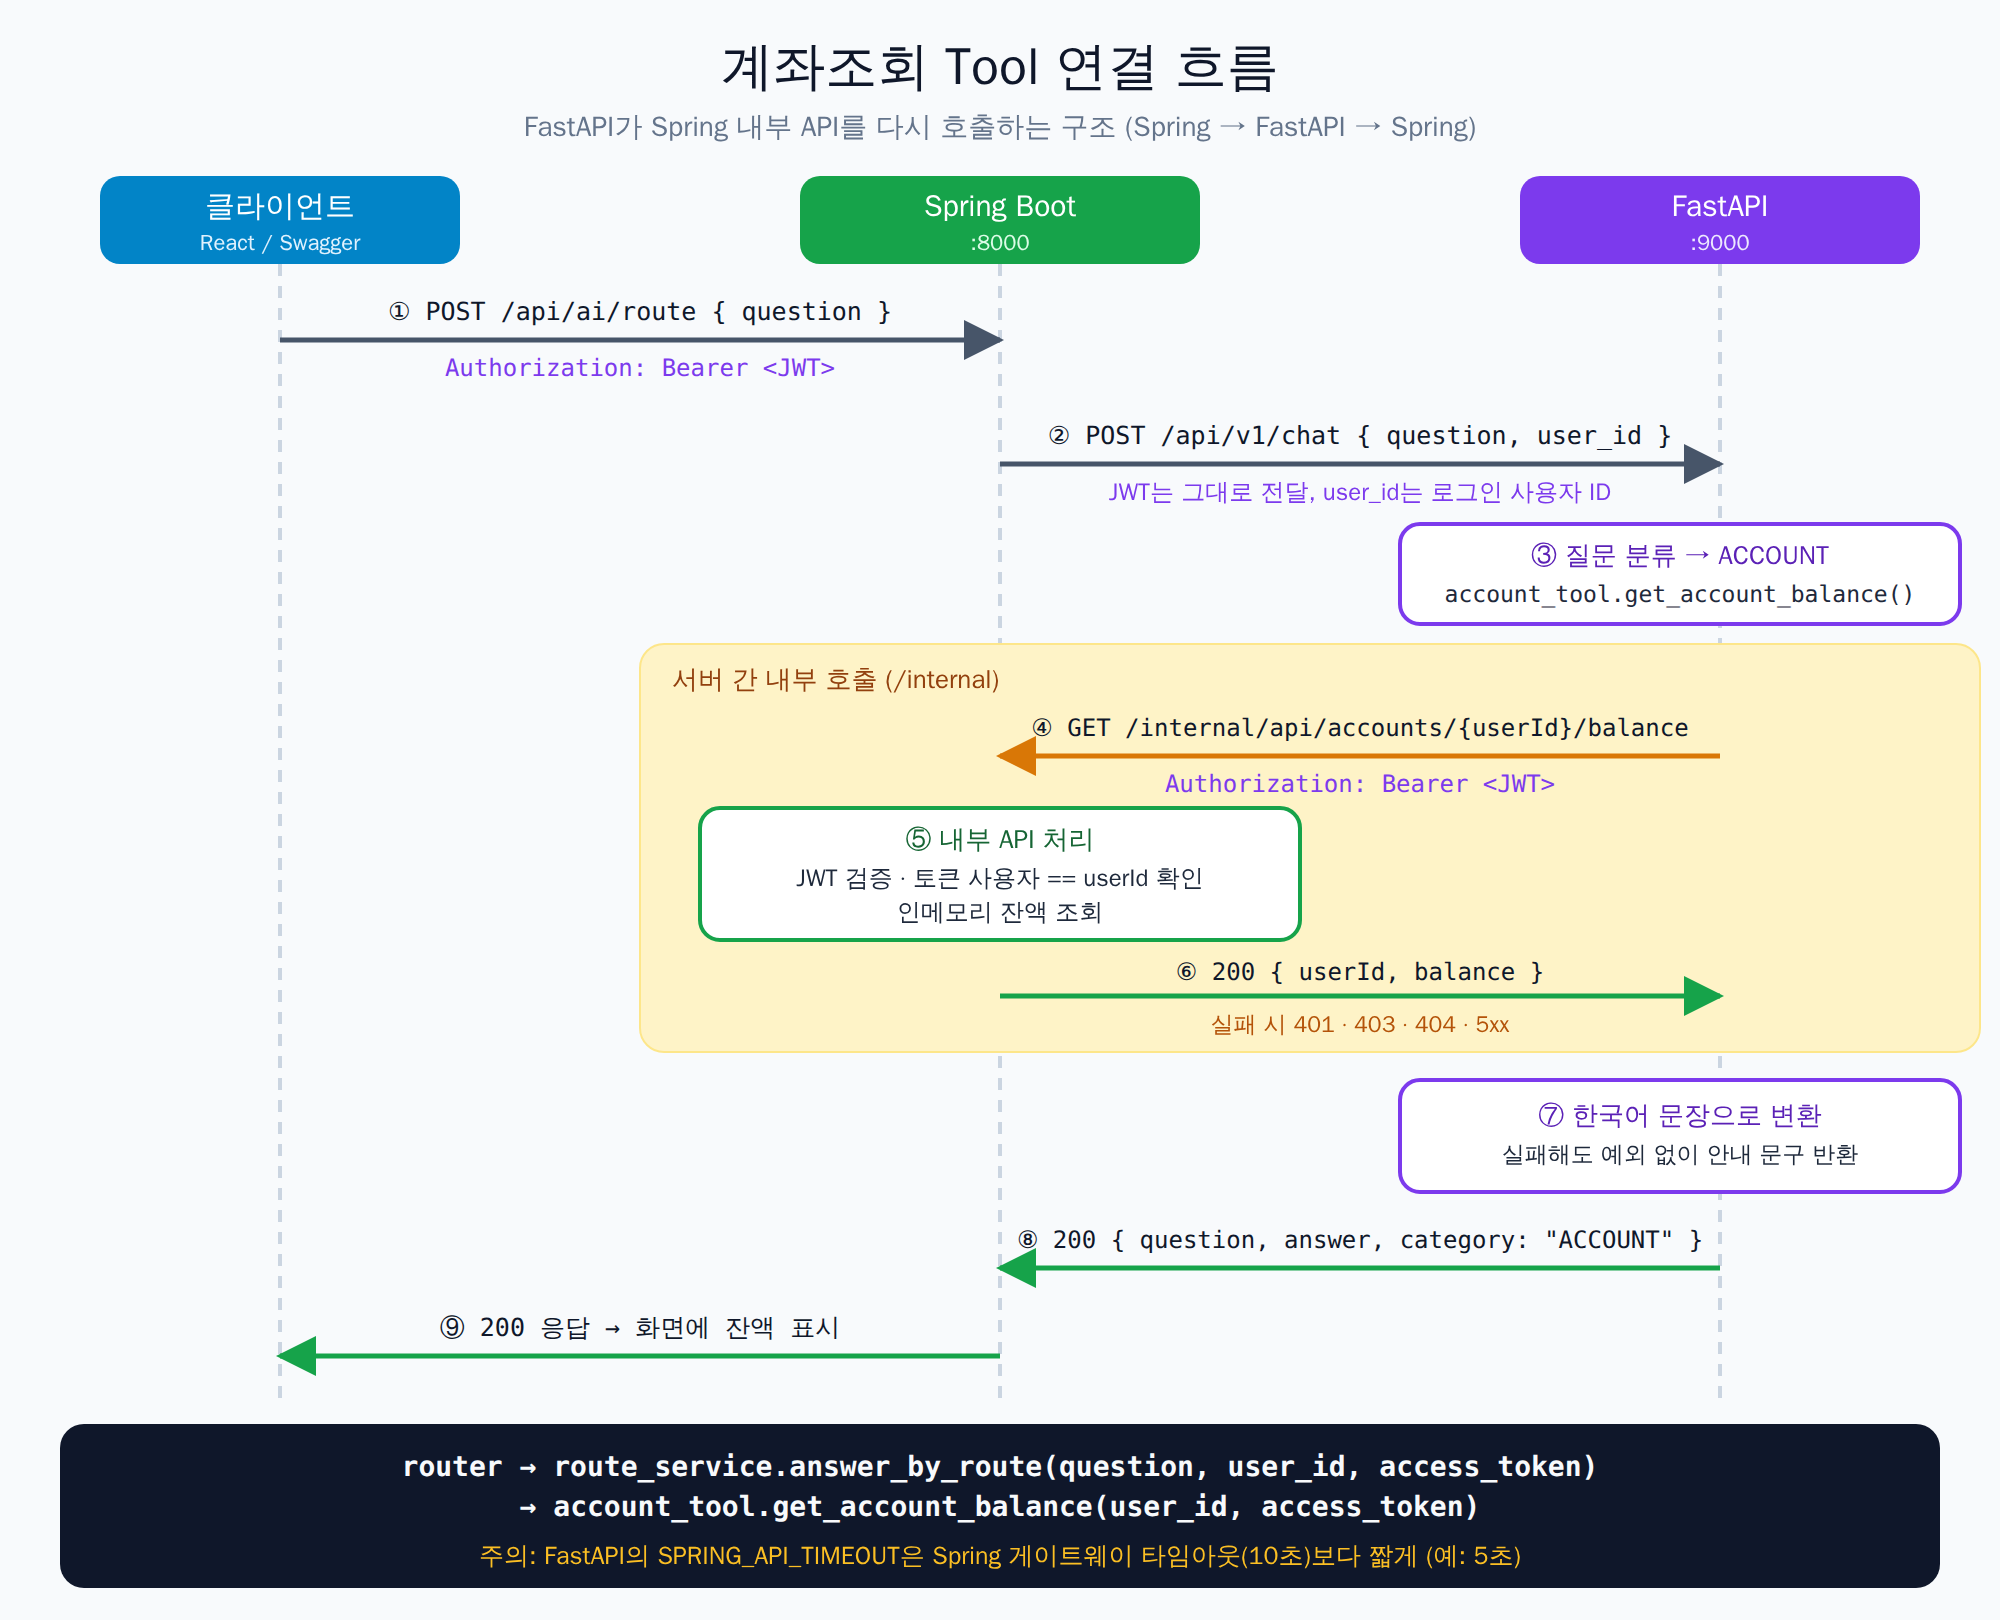
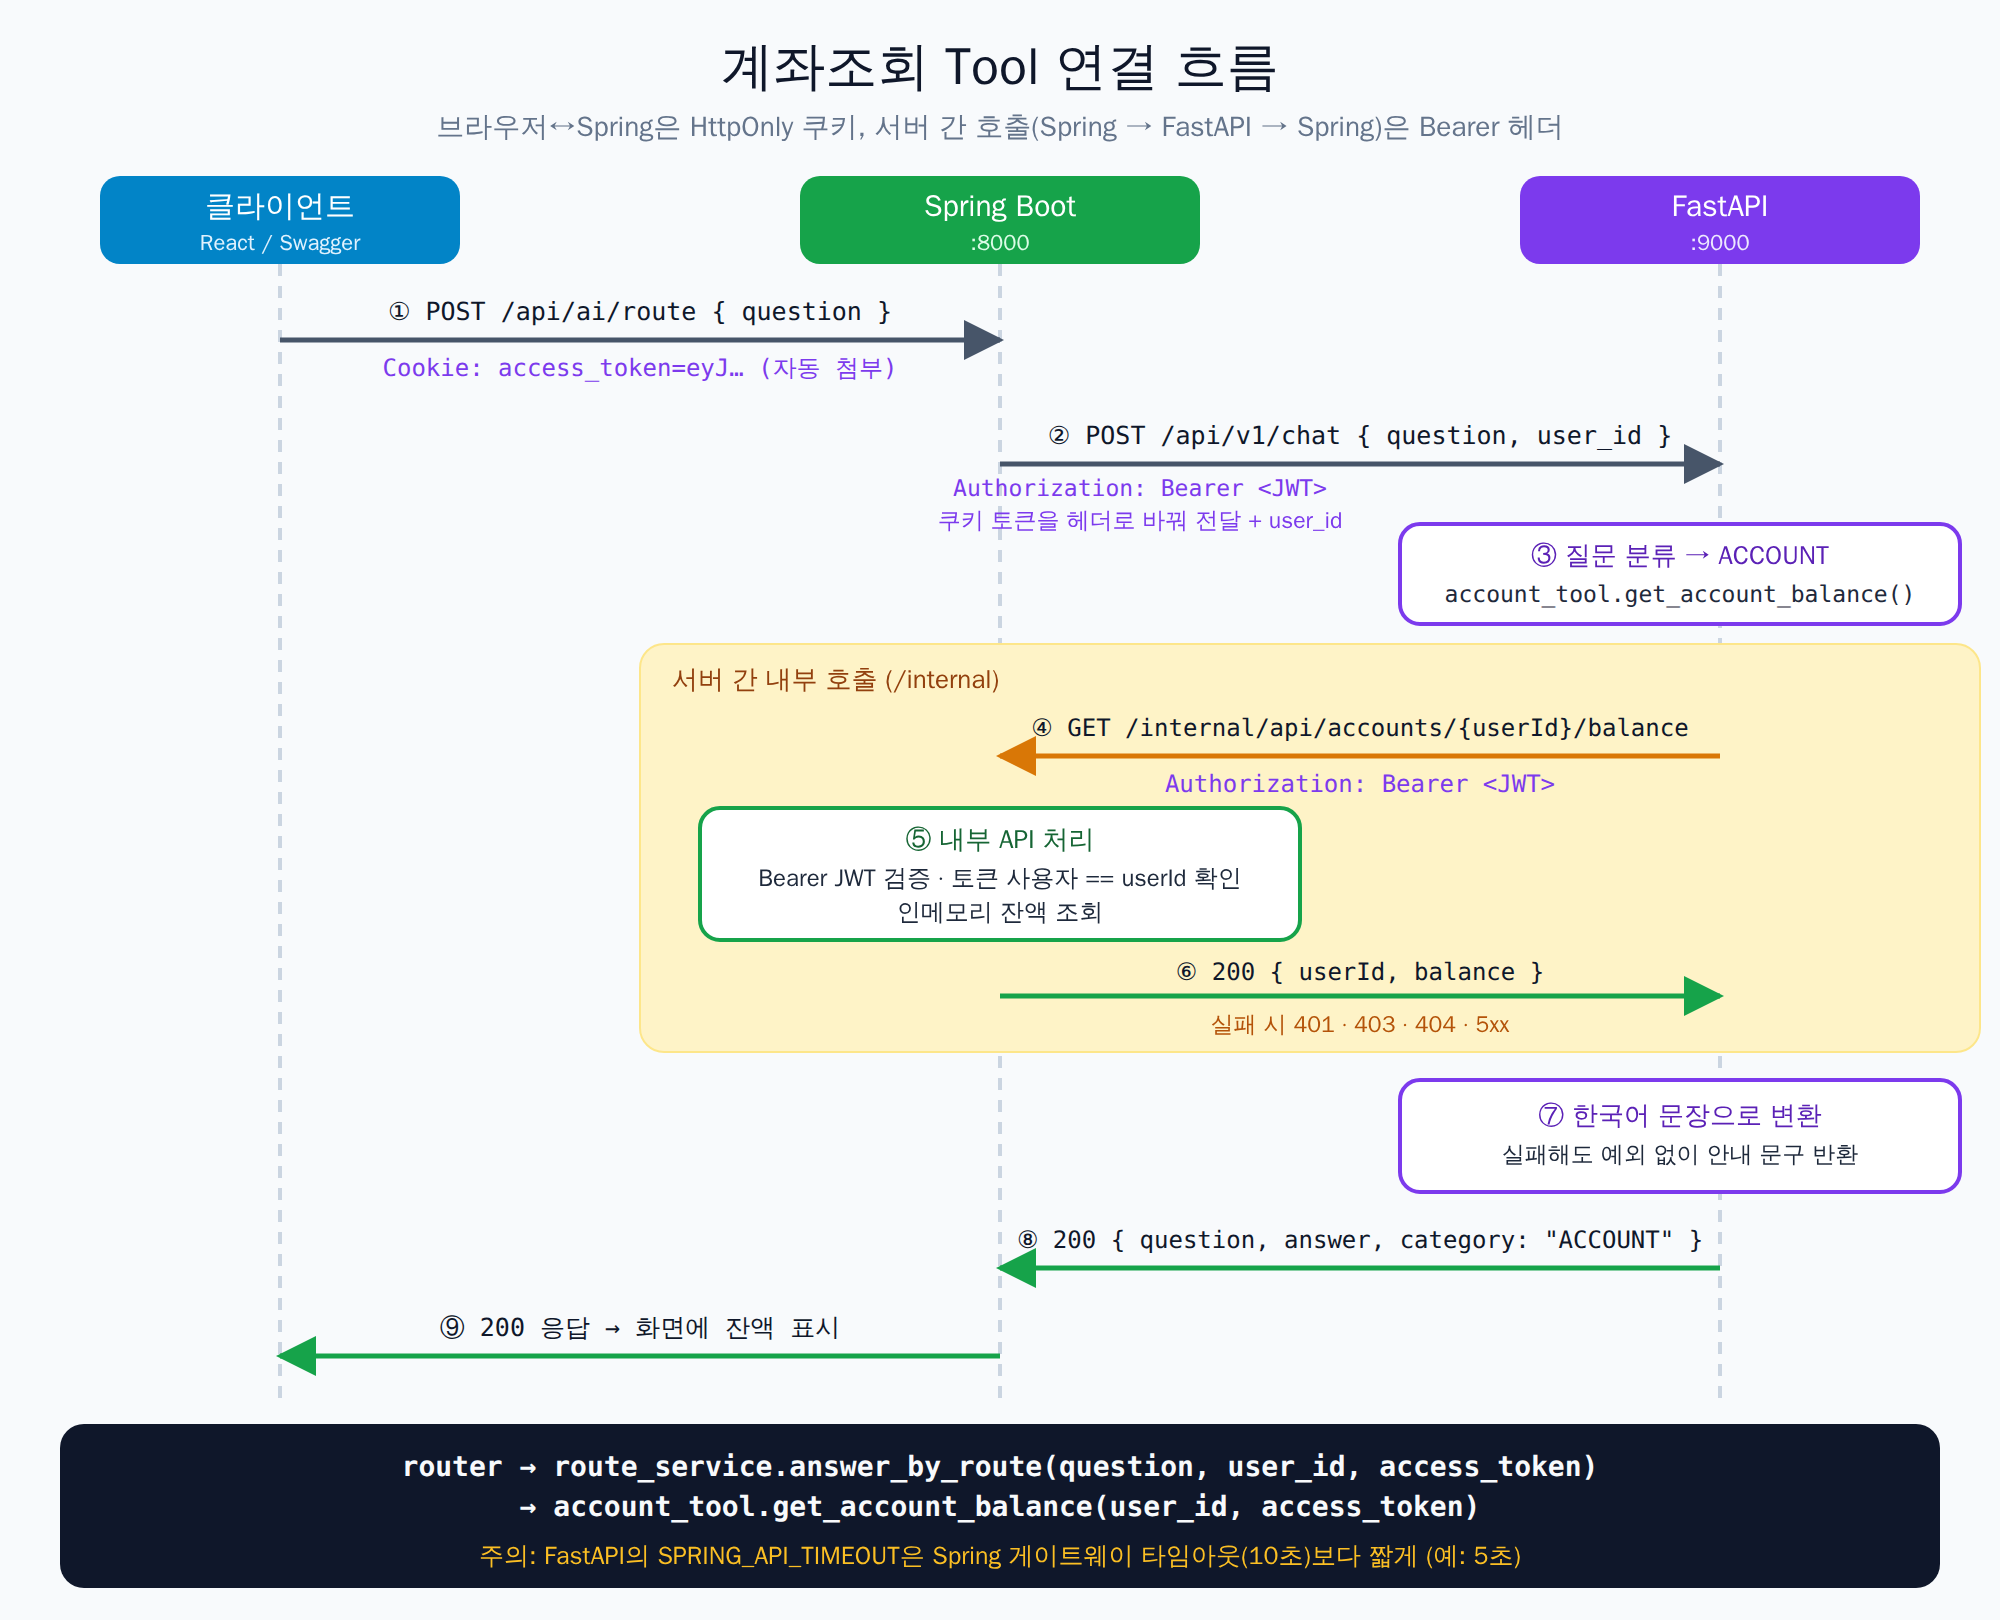
docs: 계좌조회 Tool 흐름도·문구를 쿠키 인증 전제로 수정 (서버 간 호출은 Bearer 유지)
Claude-Session: https://claude.ai/code/session_01PjmKdqbBkS6TdB9DFCQMnX

diff --git a/docs/vibe-day2-account-tool.md b/docs/vibe-day2-account-tool.md
@@ -1,0 +1,60 @@
+# 2일차 계좌조회 Tool 연결 — Vibe Coding 문구 (HttpOnly 쿠키 인증 전제)
+
+관련 그림: `account-tool-flow.png` (호출 흐름), `account-tool-rules.png` (분류 규칙 · 실패 메시지)
+선행 문구: `vibe-day2-jwt-cookie.md` (JWT 쿠키 인증)
+
+```text
+[SpringBoot] 인증된 사용자의 계좌 잔액을 반환하는 내부 API를 만들어 주세요.
+- GET /internal/api/accounts/{userId}/balance
+- 테스트용 인메모리 잔액 (예: userId 1 → 3,250,000원)
+- 응답: {"userId": 1, "balance": 3250000}
+- 존재하지 않는 userId는 404
+- JWT 인증 필요 (/internal/** 도 authenticated)
+  · 이 API는 FastAPI가 서버 간 호출하므로 Authorization: Bearer 헤더로 받는다
+    (JwtAuthenticationFilter의 resolveToken이 쿠키가 없으면 Bearer 헤더를 읽음)
+  · 토큰의 사용자 ID와 userId가 다르면 403
+
+[SpringBoot] 게이트웨이 연결
+- AiGatewayService가 FastAPI 호출 시
+  · 로그인 사용자 ID를 body의 user_id로 전달
+  · 필터가 Authentication의 credentials에 보관한 토큰 원문을 Authorization: Bearer 헤더로 전달
+    (브라우저 쿠키를 그대로 넘기지 않는다. 서버 간 호출은 Bearer 헤더 사용)
+
+[FastAPI] SpringBoot 내부 API를 호출하는 계좌조회 기능을 추가해 주세요.
+
+1. 질문 분류 (question_classifier — ACCOUNT를 가장 먼저 검사)
+   - "잔액" / "잔고" 포함 → ACCOUNT
+   - "계좌" / "통장" + ("얼마" / "조회" / "확인" / "남았" / "있어") → ACCOUNT
+   - "계좌 개설" 같은 지식 질문 → GENERAL
+     ("개설" 등이 포함되면 위 두 번째 규칙에서 제외)
+
+2. 입력
+   - user_id: 질문 문장이 아니라 요청 본문의 user_id 필드
+   - 토큰: Swagger Authorize(HTTPBearer, 선택 입력)
+
+3. 호출 흐름
+   router → route_service.answer_by_route(question, user_id, access_token)
+          → account_tool.get_account_balance(user_id, access_token)
+
+4. account_tool 규칙
+   - httpx로 GET 요청, 토큰이 있으면 Authorization: Bearer 헤더 추가
+   - 예외를 던지지 않고 항상 한국어 문자열 반환
+   - 실패 케이스별 안내 문구 포함:
+     잘못된 user_id(호출 전 검증), 연결 실패, 타임아웃, 404, 401, 403, 5xx, 그 외 예외
+
+5. 설정 (config.py)
+   - SPRING_API_BASE_URL (기본 http://localhost:8000), SPRING_API_TIMEOUT 사용
+   - 하드코딩 금지
+   - 타임아웃은 Spring 게이트웨이 타임아웃(10초)보다 짧게 (예: 5초)
+
+[확인]
+- "내 잔액 알려줘" → ACCOUNT, "계좌 개설하는 방법 알려줘" → GENERAL
+- Spring 중지 / 토큰 없음(401) / 타인 userId(403) / 없는 userId(404) 각각 한국어 안내 문구 반환
+- 로그인 쿠키로 /api/ai/route 호출 시 계좌 잔액 문장이 반환
+```
+
+## 쿠키 방식 전환으로 바뀐 점 (이전 버전 대비)
+- 브라우저 ↔ Spring: 토큰이 `Authorization` 헤더에서 HttpOnly 쿠키로 바뀜
+- Spring → FastAPI → Spring(내부 API): **변경 없음** (Bearer 헤더 유지). FastAPI 코드와 문구는 그대로
+- Spring 게이트웨이가 쿠키에서 꺼낸 토큰을 Bearer 헤더로 변환해 전달하는 단계가 추가됨
+- 내부 API는 쿠키가 없는 서버 간 호출이므로, 필터의 Bearer 대체 경로(`resolveToken`)를 막으면 계좌조회가 동작하지 않음
